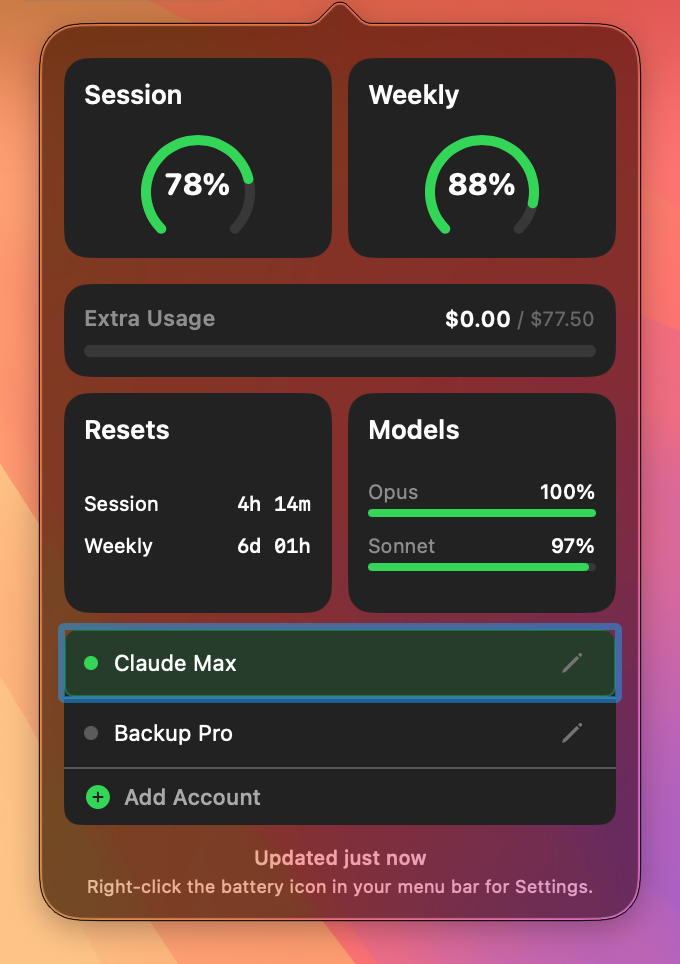
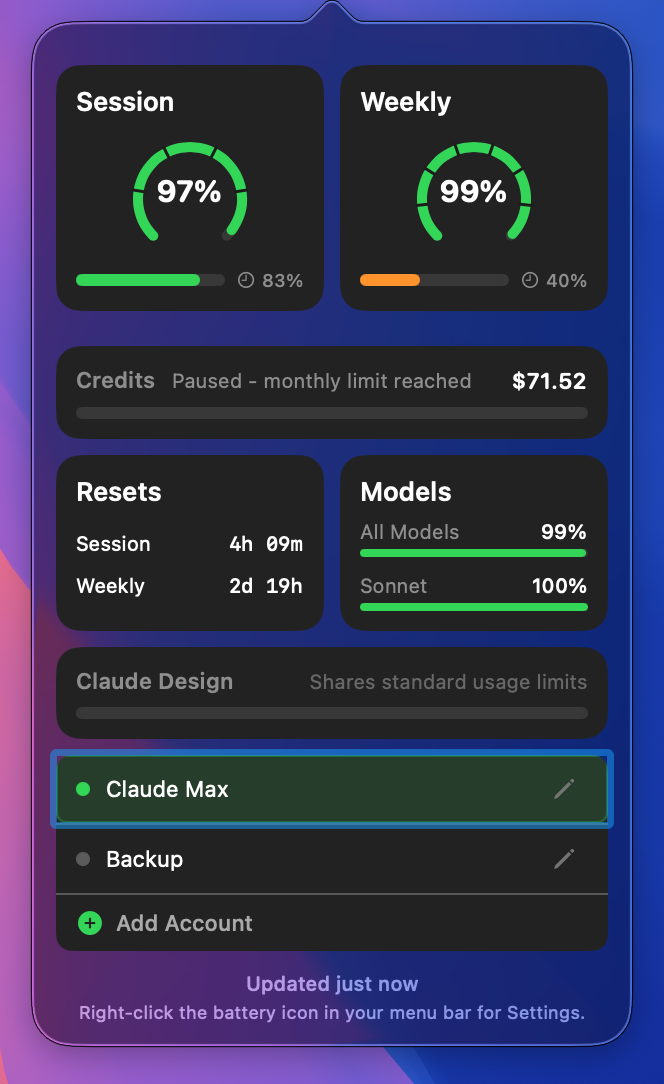
feat(site): add 'Install for Windows (coming soon)' option and refresh popover screenshot
Adds a third install card flagging the upcoming native Windows build so visitors know it is planned, and updates the popover preview to the current v1.50 UI (credits, models, account switcher).

diff --git a/site/index.html b/site/index.html
@@ -164,6 +164,13 @@
       transform: translateY(-1px);
     }
 
+    .btn-disabled {
+      background: var(--bg-alt);
+      color: var(--text-muted);
+      border: 1px dashed var(--border);
+      cursor: not-allowed;
+    }
+
     .btn svg {
       width: 20px;
       height: 20px;
@@ -353,9 +360,9 @@
 
     .install-options {
       display: grid;
-      grid-template-columns: repeat(2, 1fr);
+      grid-template-columns: repeat(3, 1fr);
       gap: 20px;
-      max-width: 680px;
+      max-width: 1020px;
       margin: 0 auto;
     }
 
@@ -440,6 +447,7 @@
       .screenshot { padding: 40px 0 48px; }
       .icon-styles { padding: 48px 0; }
       .install { padding: 48px 0; }
+      .install-options { grid-template-columns: 1fr; max-width: 420px; }
     }
 
     /* ---- Responsive: Phone ---- */
@@ -601,6 +609,14 @@
           <h3>Homebrew</h3>
           <p>If you prefer the command line.</p>
           <div class="code-block">brew install reebz/claude-battery/claude-battery</div>
+        </div>
+        <div class="install-card">
+          <h3>Windows</h3>
+          <p>A native Windows build is on the way.</p>
+          <span class="btn btn-disabled" role="button" aria-disabled="true" tabindex="-1" style="width: 100%; justify-content: center;">
+            <svg xmlns="http://www.w3.org/2000/svg" viewBox="0 0 24 24" fill="currentColor" style="width:18px;height:18px"><path d="M3 5.1 10.4 4v7.2H3V5.1Zm0 13.8 7.4 1.1v-7.1H3v6Zm8.2 1.2L21 21v-8.6h-9.8v7.7Zm0-16.2v7.7H21V3l-9.8 1.9Z"/></svg>
+            Install for Windows (coming soon)
+          </span>
         </div>
       </div>
     </div>
